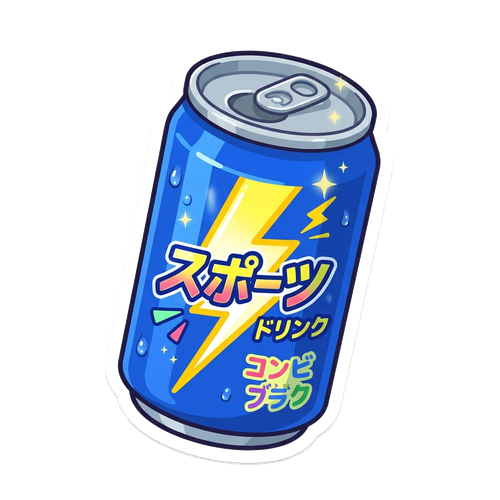
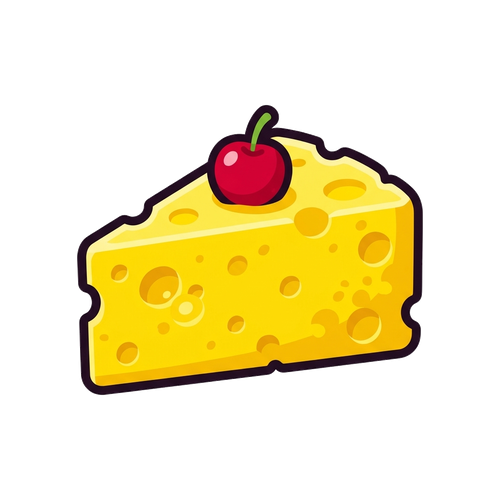
Add files via upload

diff --git a/src/config/items.js b/src/config/items.js
@@ -1,18 +1,18 @@
 // ============================================================
-// 📦 src/config/items.js — 日式超商商品定義 (Convenience Store Edition)
+// 📦 src/config/items.js — 比奇堡深海美食定義 (Bikini Bottom Edition)
 // ============================================================
 
 export const ITEM_DEFS = [
-  { id: 'onigiri',    name: '星野海苔三角御飯糰',   label: '三角飯糰',   price: '¥160', desc: '嚴選越光米與脆口海苔，經典超商紅線易撕包裝！' },
-  { id: 'sushi',      name: '富士草莓牛乳利樂盒',   label: '草莓牛乳',   price: '¥180', desc: '香甜濃郁的生乳交融草莓香氣，超商必買人氣紙盒飲料。' },
-  { id: 'ramen',      name: '大紅碗裝即食豚骨杯麵', label: '豚骨杯麵',   price: '¥240', desc: '宵夜首選！熬煮濃白豚骨湯頭與溏心蛋的經典紅碗即食麵。' },
-  { id: 'tamagoyaki', name: '日式薄鹽洋芋片零食袋', label: '洋芋片袋',   price: '¥150', desc: '金黃酥脆的薄切洋芋片，兩端鋸齒膨脹波浪鋁箔包裝。' },
-  { id: 'takoyaki',   name: '極上無糖黑咖啡金屬罐', label: '黑咖啡罐',   price: '¥130', desc: '嚴選深焙咖啡豆萃取，消光黑金屬直立圓柱易開罐。' },
-  { id: 'yakitori',   name: '宇治無糖綠茶寶特瓶',   label: '綠茶瓶',     price: '¥140', desc: '一番茶萃取冷冽甘甜，帶有細緻凹凸紋理的綠蓋長頸寶特瓶。' },
-  { id: 'pudding',    name: '特濃焦糖烤布丁透明杯', label: '焦糖布丁',   price: '¥190', desc: '鵝黃滑嫩布丁淋上深黑琥珀焦糖醬，透明梯形甜點杯。' },
-  { id: 'ikura',      name: '蜜柑果汁碳酸易開罐',   label: '蜜柑汽水',   price: '¥160', desc: '和歌山蜜柑果汁微氣泡碳酸飲，鮮豔亮橘圓柱鋁罐。' },
-  { id: 'daifuku',    name: '宇治抹茶大福透明盒',   label: '抹茶大福',   price: '¥220', desc: '宇治抹茶麻糬包覆濃醇抹茶餡，透明圓弧吸塑甜點盒。' },
-  { id: 'inari',      name: '能量電解質運動補給罐', label: '運動補給罐', price: '¥170', desc: '迅速補充水分與電解質，亮寶藍金屬機能運動飲料。' }
+  { id: 'onigiri',    name: '比奇堡經典美味蟹堡',   label: '美味蟹堡',   price: '¥280', desc: '秘傳配方！烘烤芝麻麵包夾入多汁蟹肉排、融化起司與爽脆生菜。' },
+  { id: 'sushi',      name: '野生水母果醬玻璃罐',   label: '水母果醬',   price: '¥320', desc: '在水母田親手採集！透亮霓虹粉紫色的深海天然果醬，甜而不膩。' },
+  { id: 'ramen',      name: '熱騰騰海藻脆脆薯條',   label: '海藻薯條',   price: '¥180', desc: '經典紅色梯形包裝！現炸酥脆的深海綠海甘藍薯條，唰嘴停不下來。' },
+  { id: 'tamagoyaki', name: '小蝸專用蝸牛飼料罐',   label: '小蝸飼料',   price: '¥150', desc: '青綠色金屬圓柱罐頭！小蝸的最愛，富含礦物質與深海鈣質。' },
+  { id: 'takoyaki',   name: '海泡發光能量蘇打水',   label: '海泡蘇打',   price: '¥200', desc: '咕嚕嚕冒著氣泡！亮青綠色氣泡蘇打杯，插著紅白條紋吸管。' },
+  { id: 'yakitori',   name: '粉紅海星旋轉棒棒糖',   label: '海星棒棒糖', price: '¥160', desc: '派大星推薦！五角海星形狀的粉紅與金黃雙色旋轉硬糖。' },
+  { id: 'pudding',    name: '復古錨牌海盜沙士罐',   label: '錨牌沙士',   price: '¥170', desc: '深海老水手最愛！印著生鏽航海鐵錨標誌的復古橘紅碳酸汽水。' },
+  { id: 'ikura',      name: '發光粉紅珍珠巨蚌盒',   label: '珍珠大蚌',   price: '¥360', desc: '紫藍色貝殼微張，裡面夾著一顆璀璨發光的粉紅糖果大珍珠。' },
+  { id: 'daifuku',    name: '電鰻高壓電能量飲料',   label: '電鰻能量',   price: '¥220', desc: '消光黑金屬罐印著亮黃閃電！喝一口瞬間精力充沛的深海能量飲。' },
+  { id: 'inari',      name: '海綿方塊起司蛋糕',     label: '海綿蛋糕',   price: '¥250', desc: '金黃多孔的海綿蛋糕切塊，頂部綴著一顆鮮紅晶亮的糖漬櫻桃。' }
 ];
 
 export function getItemById(id) {

diff --git a/src/themes/japanese/items.js b/src/themes/japanese/items.js
@@ -1,18 +1,18 @@
 // ============================================================
-// 📦 src/config/items.js — 日式超商商品定義 (Convenience Store Edition)
+// 📦 src/config/items.js — 比奇堡深海美食定義 (Bikini Bottom Edition)
 // ============================================================
 
 export const ITEM_DEFS = [
-  { id: 'onigiri',    name: '星野海苔三角御飯糰',   label: '三角飯糰',   price: '¥160', desc: '嚴選越光米與脆口海苔，經典超商紅線易撕包裝！' },
-  { id: 'sushi',      name: '富士草莓牛乳利樂盒',   label: '草莓牛乳',   price: '¥180', desc: '香甜濃郁的生乳交融草莓香氣，超商必買人氣紙盒飲料。' },
-  { id: 'ramen',      name: '大紅碗裝即食豚骨杯麵', label: '豚骨杯麵',   price: '¥240', desc: '宵夜首選！熬煮濃白豚骨湯頭與溏心蛋的經典紅碗即食麵。' },
-  { id: 'tamagoyaki', name: '日式薄鹽洋芋片零食袋', label: '洋芋片袋',   price: '¥150', desc: '金黃酥脆的薄切洋芋片，兩端鋸齒膨脹波浪鋁箔包裝。' },
-  { id: 'takoyaki',   name: '極上無糖黑咖啡金屬罐', label: '黑咖啡罐',   price: '¥130', desc: '嚴選深焙咖啡豆萃取，消光黑金屬直立圓柱易開罐。' },
-  { id: 'yakitori',   name: '宇治無糖綠茶寶特瓶',   label: '綠茶瓶',     price: '¥140', desc: '一番茶萃取冷冽甘甜，帶有細緻凹凸紋理的綠蓋長頸寶特瓶。' },
-  { id: 'pudding',    name: '特濃焦糖烤布丁透明杯', label: '焦糖布丁',   price: '¥190', desc: '鵝黃滑嫩布丁淋上深黑琥珀焦糖醬，透明梯形甜點杯。' },
-  { id: 'ikura',      name: '蜜柑果汁碳酸易開罐',   label: '蜜柑汽水',   price: '¥160', desc: '和歌山蜜柑果汁微氣泡碳酸飲，鮮豔亮橘圓柱鋁罐。' },
-  { id: 'daifuku',    name: '宇治抹茶大福透明盒',   label: '抹茶大福',   price: '¥220', desc: '宇治抹茶麻糬包覆濃醇抹茶餡，透明圓弧吸塑甜點盒。' },
-  { id: 'inari',      name: '能量電解質運動補給罐', label: '運動補給罐', price: '¥170', desc: '迅速補充水分與電解質，亮寶藍金屬機能運動飲料。' }
+  { id: 'onigiri',    name: '比奇堡經典美味蟹堡',   label: '美味蟹堡',   price: '¥280', desc: '秘傳配方！烘烤芝麻麵包夾入多汁蟹肉排、融化起司與爽脆生菜。' },
+  { id: 'sushi',      name: '野生水母果醬玻璃罐',   label: '水母果醬',   price: '¥320', desc: '在水母田親手採集！透亮霓虹粉紫色的深海天然果醬，甜而不膩。' },
+  { id: 'ramen',      name: '熱騰騰海藻脆脆薯條',   label: '海藻薯條',   price: '¥180', desc: '經典紅色梯形包裝！現炸酥脆的深海綠海甘藍薯條，唰嘴停不下來。' },
+  { id: 'tamagoyaki', name: '小蝸專用蝸牛飼料罐',   label: '小蝸飼料',   price: '¥150', desc: '青綠色金屬圓柱罐頭！小蝸的最愛，富含礦物質與深海鈣質。' },
+  { id: 'takoyaki',   name: '海泡發光能量蘇打水',   label: '海泡蘇打',   price: '¥200', desc: '咕嚕嚕冒著氣泡！亮青綠色氣泡蘇打杯，插著紅白條紋吸管。' },
+  { id: 'yakitori',   name: '粉紅海星旋轉棒棒糖',   label: '海星棒棒糖', price: '¥160', desc: '派大星推薦！五角海星形狀的粉紅與金黃雙色旋轉硬糖。' },
+  { id: 'pudding',    name: '復古錨牌海盜沙士罐',   label: '錨牌沙士',   price: '¥170', desc: '深海老水手最愛！印著生鏽航海鐵錨標誌的復古橘紅碳酸汽水。' },
+  { id: 'ikura',      name: '發光粉紅珍珠巨蚌盒',   label: '珍珠大蚌',   price: '¥360', desc: '紫藍色貝殼微張，裡面夾著一顆璀璨發光的粉紅糖果大珍珠。' },
+  { id: 'daifuku',    name: '電鰻高壓電能量飲料',   label: '電鰻能量',   price: '¥220', desc: '消光黑金屬罐印著亮黃閃電！喝一口瞬間精力充沛的深海能量飲。' },
+  { id: 'inari',      name: '海綿方塊起司蛋糕',     label: '海綿蛋糕',   price: '¥250', desc: '金黃多孔的海綿蛋糕切塊，頂部綴著一顆鮮紅晶亮的糖漬櫻桃。' }
 ];
 
 export function getItemById(id) {

diff --git a/src/main.js b/src/main.js
@@ -450,22 +450,22 @@ class GameApp {
     const cols = 3;
     const rows = 3;
     
-    // 1. 物理極限：左右邊距 0，水平間距 3px，垂直間距縮到 4px
-    const padX = 0; 
+    // 1. 左右呼吸邊距 10px，露出比奇堡深海背景、波浪與氣泡
+    const padX = 10; 
     const gapX = 3; 
-    const gapY = 4;
+    const gapY = 5;
 
     // 2. 寬度基準
     const shelfW = (this.width - padX * 2 - gapX * (cols - 1)) / cols;
 
-    // 3. 垂直空間最大化：打破死板正方形限制，徹底消滅上下大片空白！
-    this.topSceneH = 2; 
-    this.bottomSceneH = Math.min(34, Math.max(24, Math.round(this.height * 0.06)));
+    // 3. 徹底移除底部遮擋物（顧客與假吧台），完全解放下排貨架與底部按鈕！
+    this.topSceneH = 4; 
+    this.bottomSceneH = 4;
 
     const availH = this.height - this.topSceneH - this.bottomSceneH;
     const maxGridShelfH = (availH - gapY * (rows - 1)) / rows;
-    // 自適應拉長放大：在直式螢幕上充分延展（最高可達 shelfW * 1.36），使觸控與拖曳熱區增加 30%+
-    const shelfH = Math.max(shelfW, Math.min(maxGridShelfH, Math.round(shelfW * 1.36)));
+    // 依高寬比自適應：高度適中，留出充足透光空間給海底珊瑚與陽光
+    const shelfH = Math.max(shelfW, Math.min(maxGridShelfH, Math.round(shelfW * 1.28)));
 
     const totalGridH = rows * shelfH + (rows - 1) * gapY;
     const freeMidH = this.height - this.topSceneH - this.bottomSceneH;
@@ -511,7 +511,7 @@ class GameApp {
 
     this.paintTopShopEaves(sctx);
     this.shelves.forEach(sh => this.paintShelfFrame(sctx, sh));
-    this.paintBottomCounterBase(sctx);
+    // this.paintBottomCounterBase(sctx); // 移除底部假吧台，不再遮擋
   }
 
   paintTopShopEaves(ctx) {
@@ -612,10 +612,11 @@ class GameApp {
     // 4. 內層槽位底色：明亮透徹的海底白沙與碧水光澤 (Clear Sea Sand Glow)
     const innerX = sh.x + 2.5, innerY = sh.y + 13;
     const innerW = sh.w - 5, innerH = sh.h - 17;
+    // 槽位半透明晶瑩質感：讓後方的比奇堡深海背景、珊瑚與氣泡直接透出！
     const recessG = ctx.createLinearGradient(0, innerY, 0, innerY + innerH);
-    recessG.addColorStop(0, '#E0F4F7');
-    recessG.addColorStop(0.5, '#FFF9EC');
-    recessG.addColorStop(1, '#FFF2D6');
+    recessG.addColorStop(0, 'rgba(255, 255, 255, 0.62)');
+    recessG.addColorStop(0.5, 'rgba(224, 248, 255, 0.48)');
+    recessG.addColorStop(1, 'rgba(255, 248, 230, 0.55)');
     ctx.fillStyle = recessG;
     ctx.strokeStyle = '#0077B6';
     ctx.lineWidth = 1.4;
@@ -1923,7 +1924,7 @@ class GameApp {
       });
     });
 
-    this.drawBottomCustomers(ctx, now);
+    // this.drawBottomCustomers(ctx, now); // 徹底移除遮擋最下排貨架的顧客立繪
     if (this.dragging) this.paintDropIndicator();
   }
 

diff --git a/src/themes/japanese/spriteAtlas.js b/src/themes/japanese/spriteAtlas.js
@@ -5,7 +5,7 @@
 import { ITEM_DEFS } from './items.js';
 
 // 強制快取破除版號，確保手機端與電腦端立即載入最新超商圖示
-const ASSET_VER = 'v=20261108_store_goods';
+const ASSET_VER = 'v=20261108_bikinibottom_goods_v2';
 
 const FOOD_IMAGES = {
   onigiri:    `./assets/food/onigiri.png?${ASSET_VER}`,

diff --git a/sw.js b/sw.js
@@ -1,4 +1,4 @@
-const CACHE_NAME = 'hoshino-game-v64-bikinibottom-shelves'; // 遞增版號以強制更新手機端的舊 SW
+const CACHE_NAME = 'hoshino-game-v65-bikinibottom-goods'; // 遞增版號以強制更新手機端的舊 SW
 
 const PRECACHE_ASSETS = [
   './',

diff --git a/index.html b/index.html
@@ -879,6 +879,6 @@
     </div>
   </div> <!-- 這是 #app 的結尾 -->
 
-  <script type="module" src="./src/main.js?v=20261108_bikinibottom"></script>
+  <script type="module" src="./src/main.js?v=20261108_bikinibottom_goods"></script>
 </body>
 </html>
